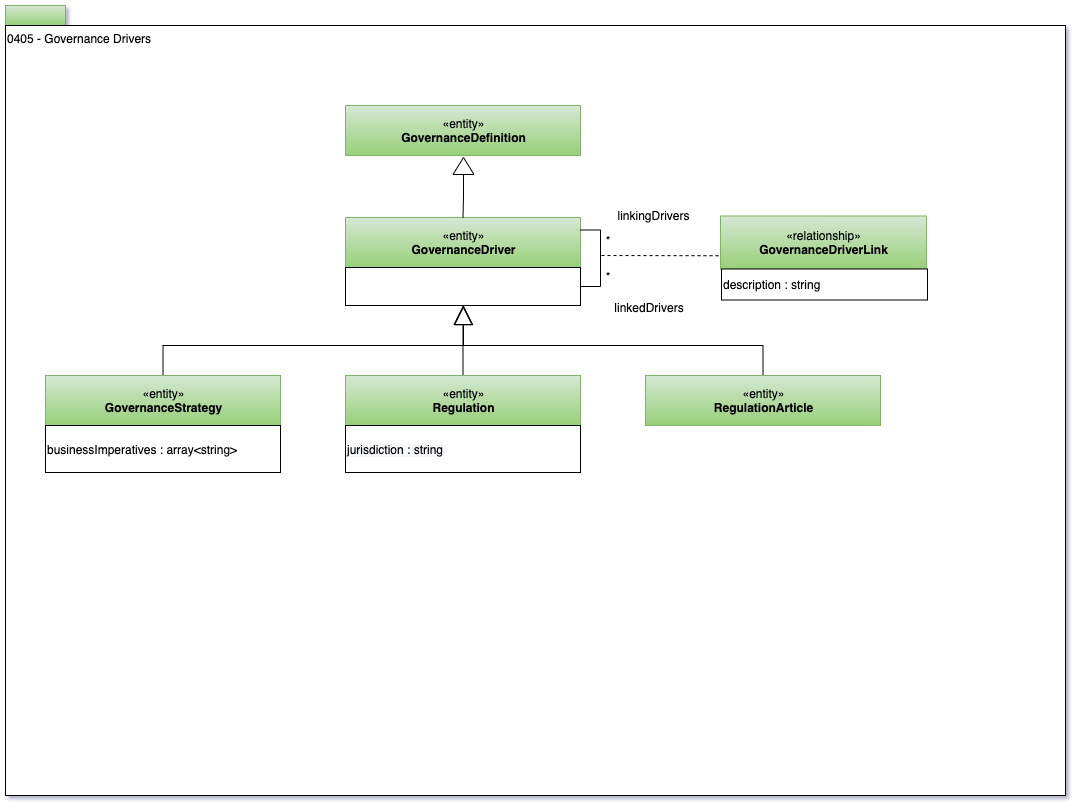
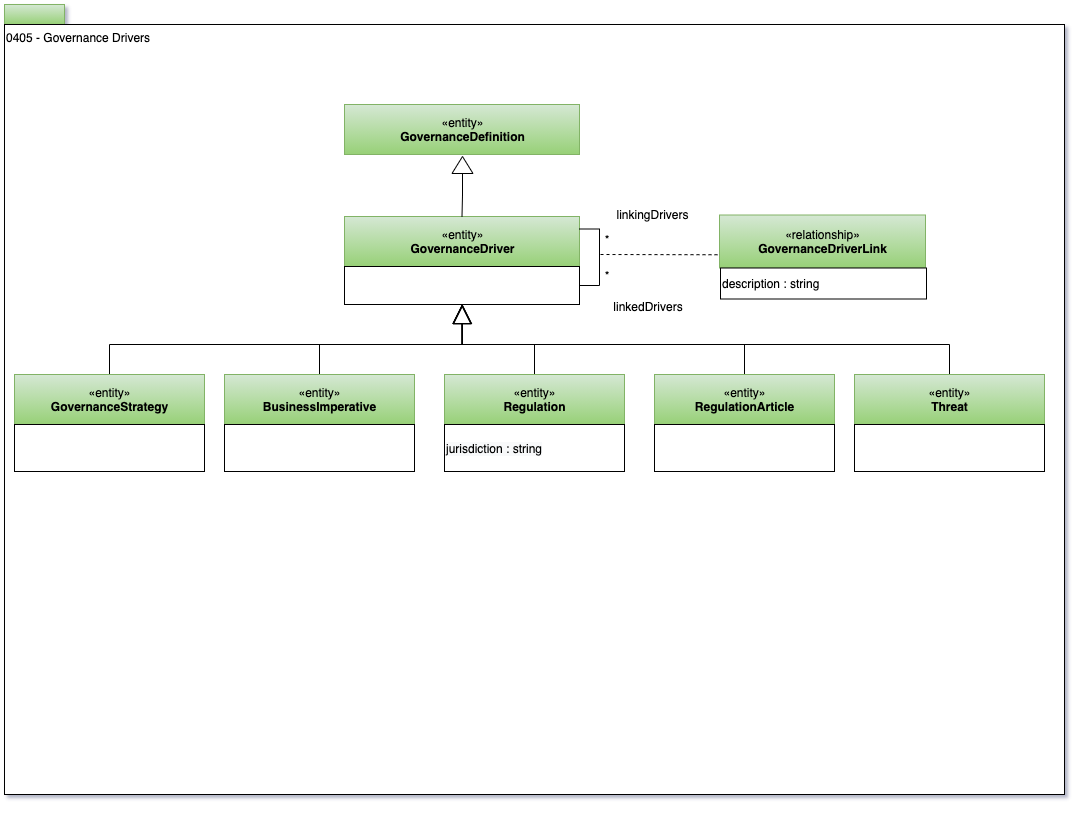
Add new types for governance driver

diff --git a/open-metadata-resources/open-metadata-archives/open-metadata-types/src/main/java/org/odpi/openmetadata/opentypes/OpenMetadataTypesArchive.java b/open-metadata-resources/open-metadata-archives/open-metadata-types/src/main/java/org/odpi/openmetadata/opentypes/OpenMetadataTypesArchive.java
@@ -156,6 +156,7 @@ public class OpenMetadataTypesArchive
          * Calls for new and changed types go here
          */
         update0010BaseModel();
+        update04xxGovernanceDefinitions();
     }
 
     /*
@@ -232,6 +233,103 @@ public class OpenMetadataTypesArchive
 
         typeDefPatch.setPropertyDefinitions(properties);
         return typeDefPatch;
+    }
+
+
+    /**
+     * A variety of changes to improve consistency and flexibility of the governance definitions
+     */
+    private void update04xxGovernanceDefinitions()
+    {
+
+        this.archiveBuilder.addEntityDef(addThreatEntity());
+
+        this.archiveBuilder.addRelationshipDef(addGovernanceDefinitionScopeRelationship());
+
+    }
+
+
+    /**
+     * This relationships allows the scope of a governance definition to be set up.
+     *
+     * @return  relationship definition
+     */
+    private RelationshipDef addGovernanceDefinitionScopeRelationship()
+    {
+        final String guid            = "3845b5cc-8c85-462f-b7e6-47472a568793";
+        final String name            = "GovernanceDefinitionScope";
+        final String description     = "Link between a scope - such as a digital service, infrastructure element or organization - and a governance definition.";
+        final String descriptionGUID = null;
+
+        final ClassificationPropagationRule classificationPropagationRule = ClassificationPropagationRule.NONE;
+
+        RelationshipDef relationshipDef = archiveHelper.getBasicRelationshipDef(guid,
+                                                                                name,
+                                                                                null,
+                                                                                description,
+                                                                                descriptionGUID,
+                                                                                classificationPropagationRule);
+
+        RelationshipEndDef relationshipEndDef;
+
+        /*
+         * Set up end 1.
+         */
+        final String                     end1EntityType               = "Referenceable";
+        final String                     end1AttributeName            = "definitionAppliesTo";
+        final String                     end1AttributeDescription     = "Elements defining the scope that the governance definition applies to.";
+        final String                     end1AttributeDescriptionGUID = null;
+        final RelationshipEndCardinality end1Cardinality              = RelationshipEndCardinality.ANY_NUMBER;
+
+        relationshipEndDef = archiveHelper.getRelationshipEndDef(this.archiveBuilder.getEntityDef(end1EntityType),
+                                                                 end1AttributeName,
+                                                                 end1AttributeDescription,
+                                                                 end1AttributeDescriptionGUID,
+                                                                 end1Cardinality);
+        relationshipDef.setEndDef1(relationshipEndDef);
+
+
+        /*
+         * Set up end 2.
+         */
+        final String                     end2EntityType               = "GovernanceDefinition";
+        final String                     end2AttributeName            = "associatedGovernanceDefinitions";
+        final String                     end2AttributeDescription     = "Governance definitions for this scope.";
+        final String                     end2AttributeDescriptionGUID = null;
+        final RelationshipEndCardinality end2Cardinality              = RelationshipEndCardinality.ANY_NUMBER;
+
+        relationshipEndDef = archiveHelper.getRelationshipEndDef(this.archiveBuilder.getEntityDef(end2EntityType),
+                                                                 end2AttributeName,
+                                                                 end2AttributeDescription,
+                                                                 end2AttributeDescriptionGUID,
+                                                                 end2Cardinality);
+        relationshipDef.setEndDef2(relationshipEndDef);
+
+        return relationshipDef;
+    }
+
+
+
+    /**
+     * This new subtype of governance driver is to document a specific threat.
+     *
+     * @return entity definition
+     */
+    private EntityDef addThreatEntity()
+    {
+        final String guid            = "4ca51fdf-9b70-46b1-bdf6-8860429e78d8";
+        final String name            = "Threat";
+        final String description     = "A description of a specific threat.";
+        final String descriptionGUID = null;
+
+        final String superTypeName = "GovernanceDriver";
+
+        return archiveHelper.getDefaultEntityDef(guid,
+                                                 name,
+                                                 this.archiveBuilder.getEntityDef(superTypeName),
+                                                 description,
+                                                 descriptionGUID);
+
     }
 }
 
